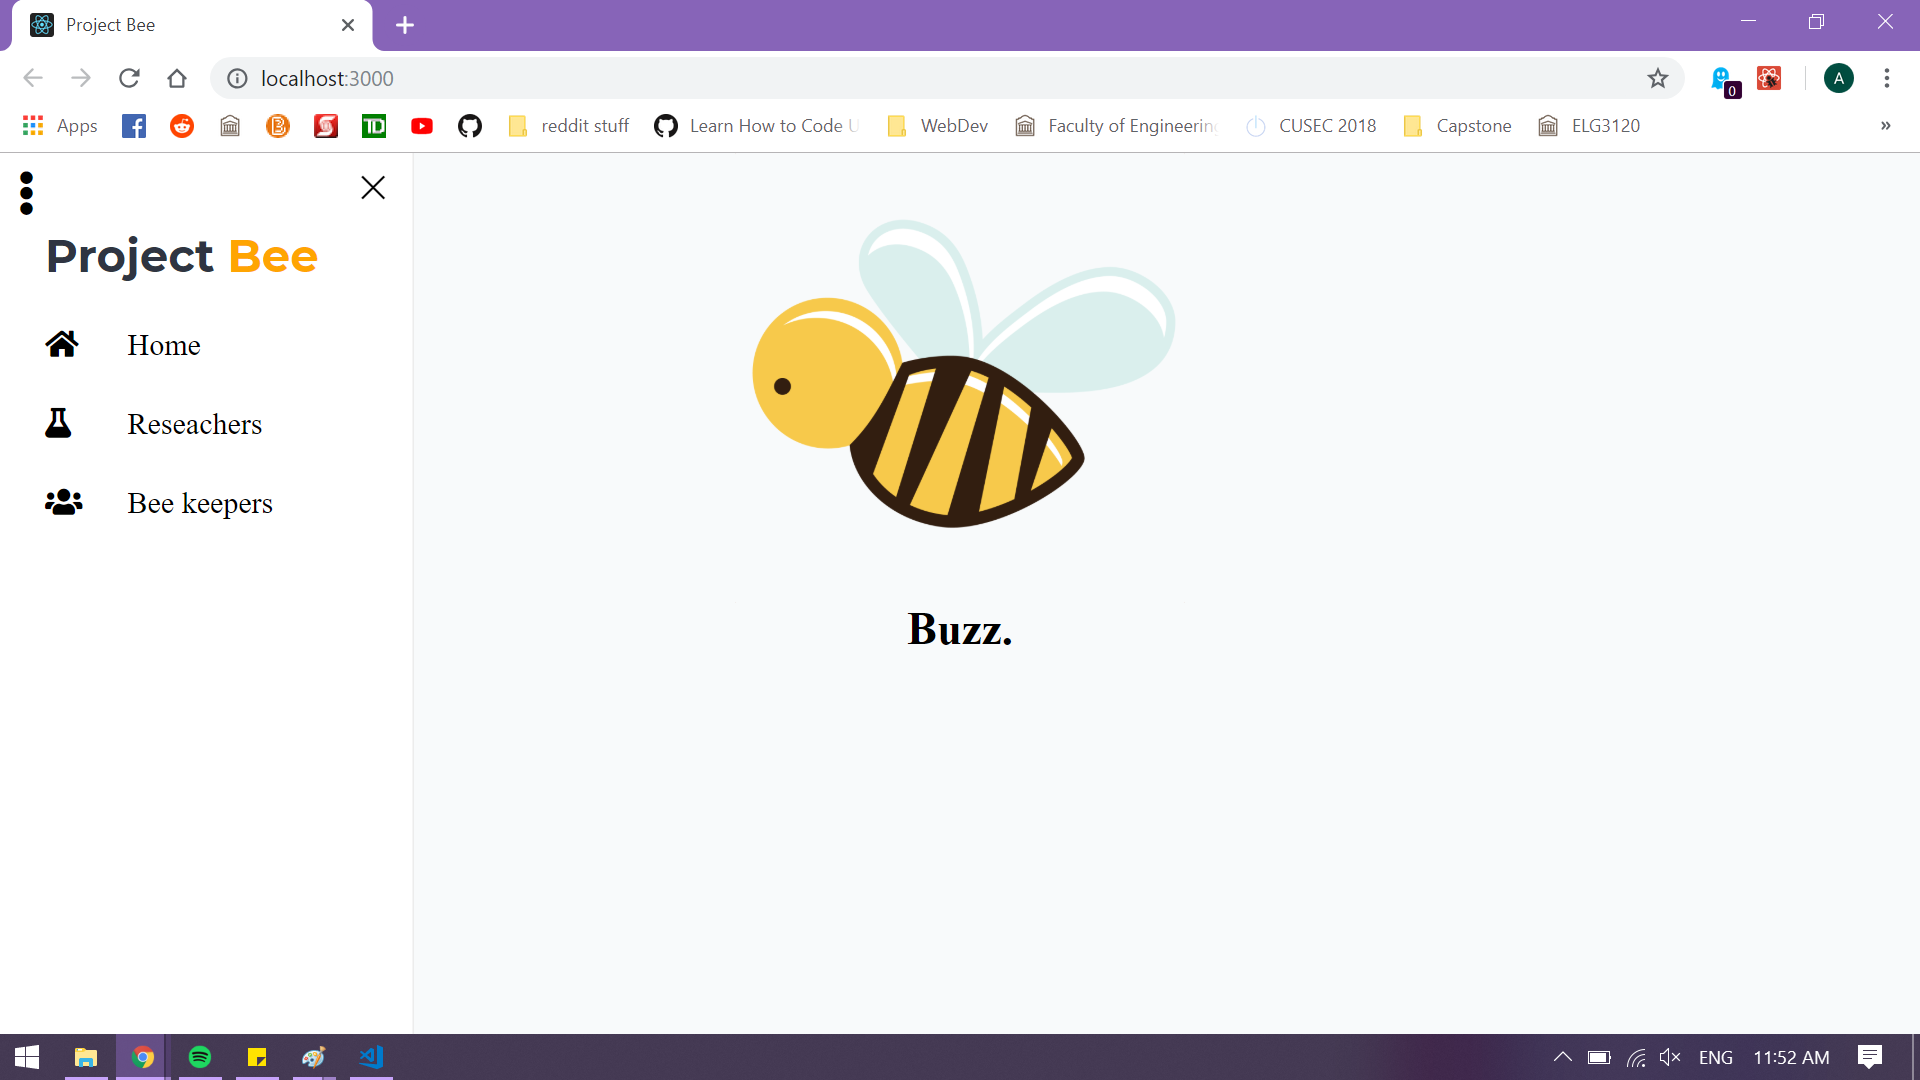
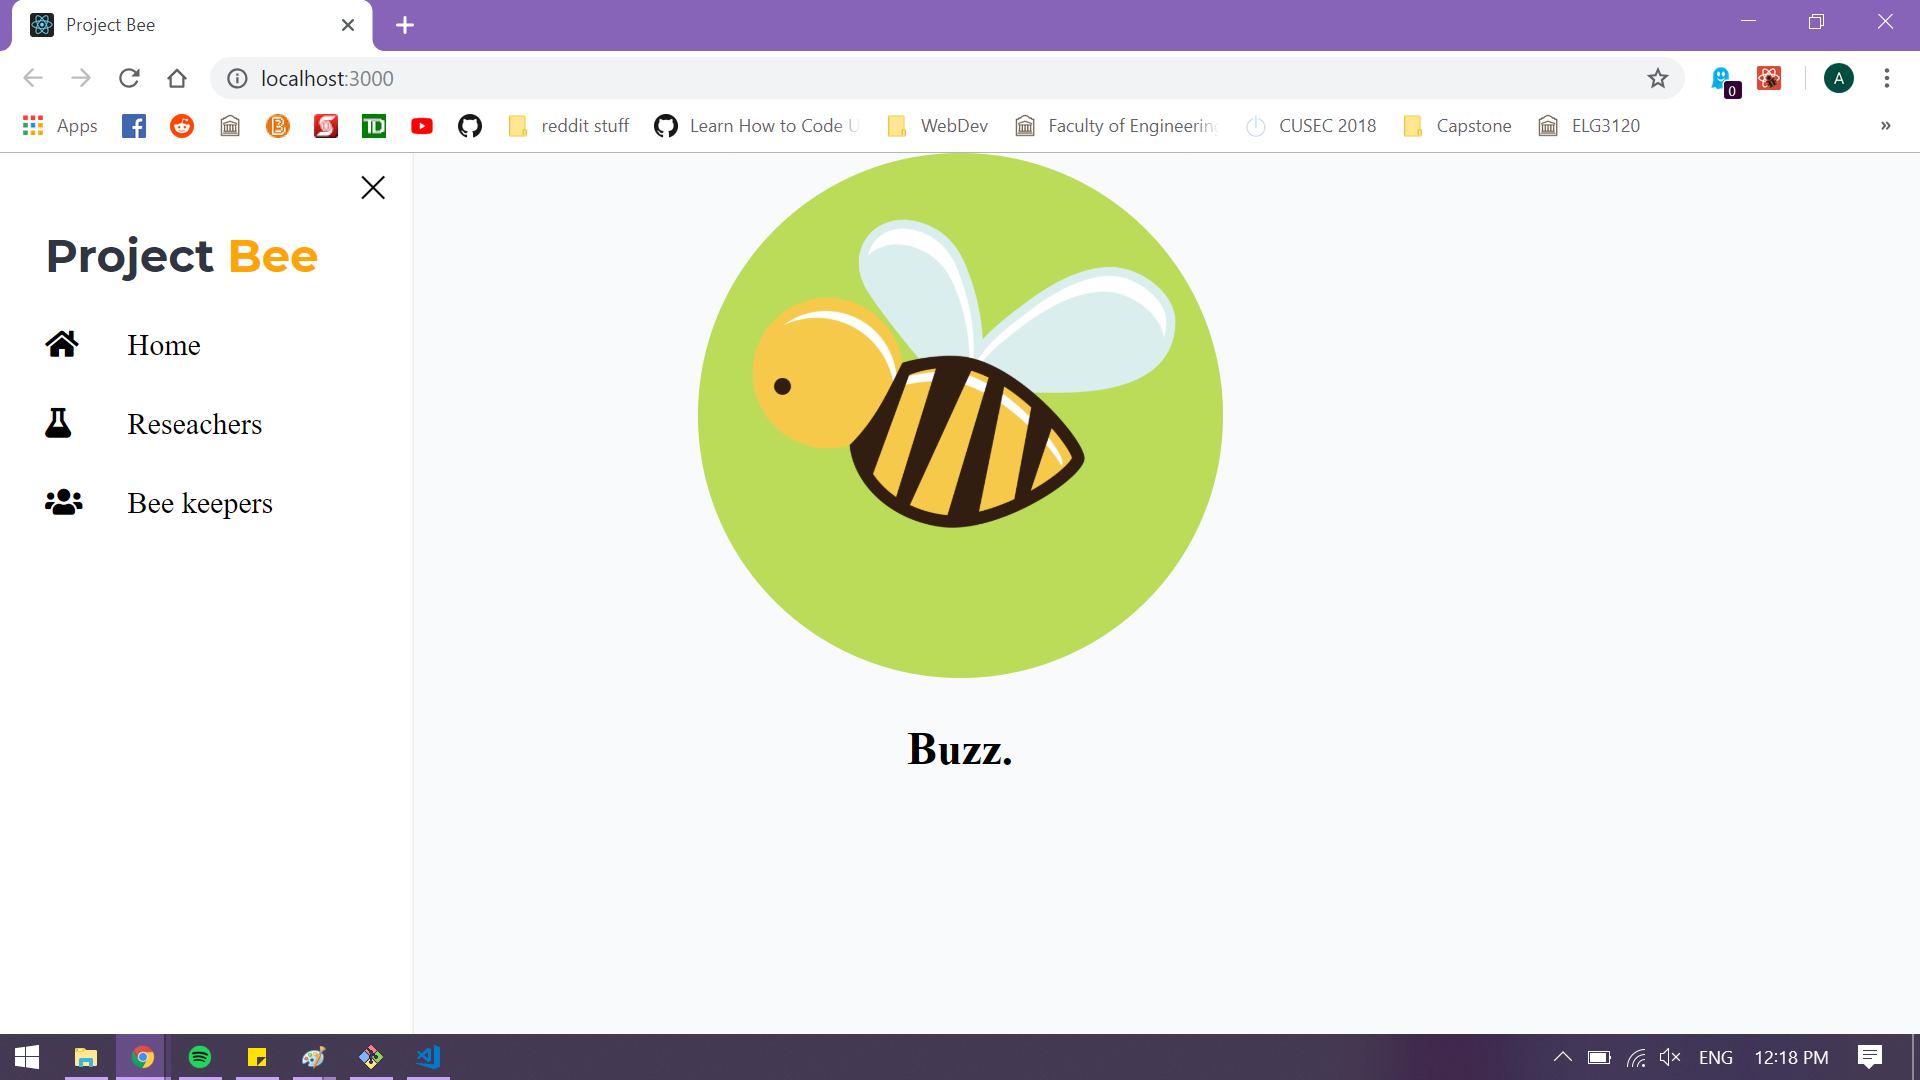
"added UI changes"

diff --git a/src/index.css b/src/index.css
@@ -11,7 +11,6 @@ body,html,#root
   left:12px;
   position: absolute;
   font-size:30px;
- 
 }
 #bee-img
 { display:block;
@@ -22,8 +21,9 @@ body,html,#root
 }
 .bee-container
 { 
+  top:50px;
   display: block;
-  margin:40px auto 30px auto;
+  margin:0 auto 30px auto;
   background-color:#badc58;
   width:350px;
   height:350px;

diff --git a/src/Menu/Menu.css b/src/Menu/Menu.css
@@ -20,7 +20,7 @@ Off-white#f8fafb
 #menu-container
 { z-index: 5;
   background-color: white;
-  position: fixed;
+  position: absolute;
   width:275px;
   height:100%;
   border-right:1px rgba(192,192,192,0.3) solid;
